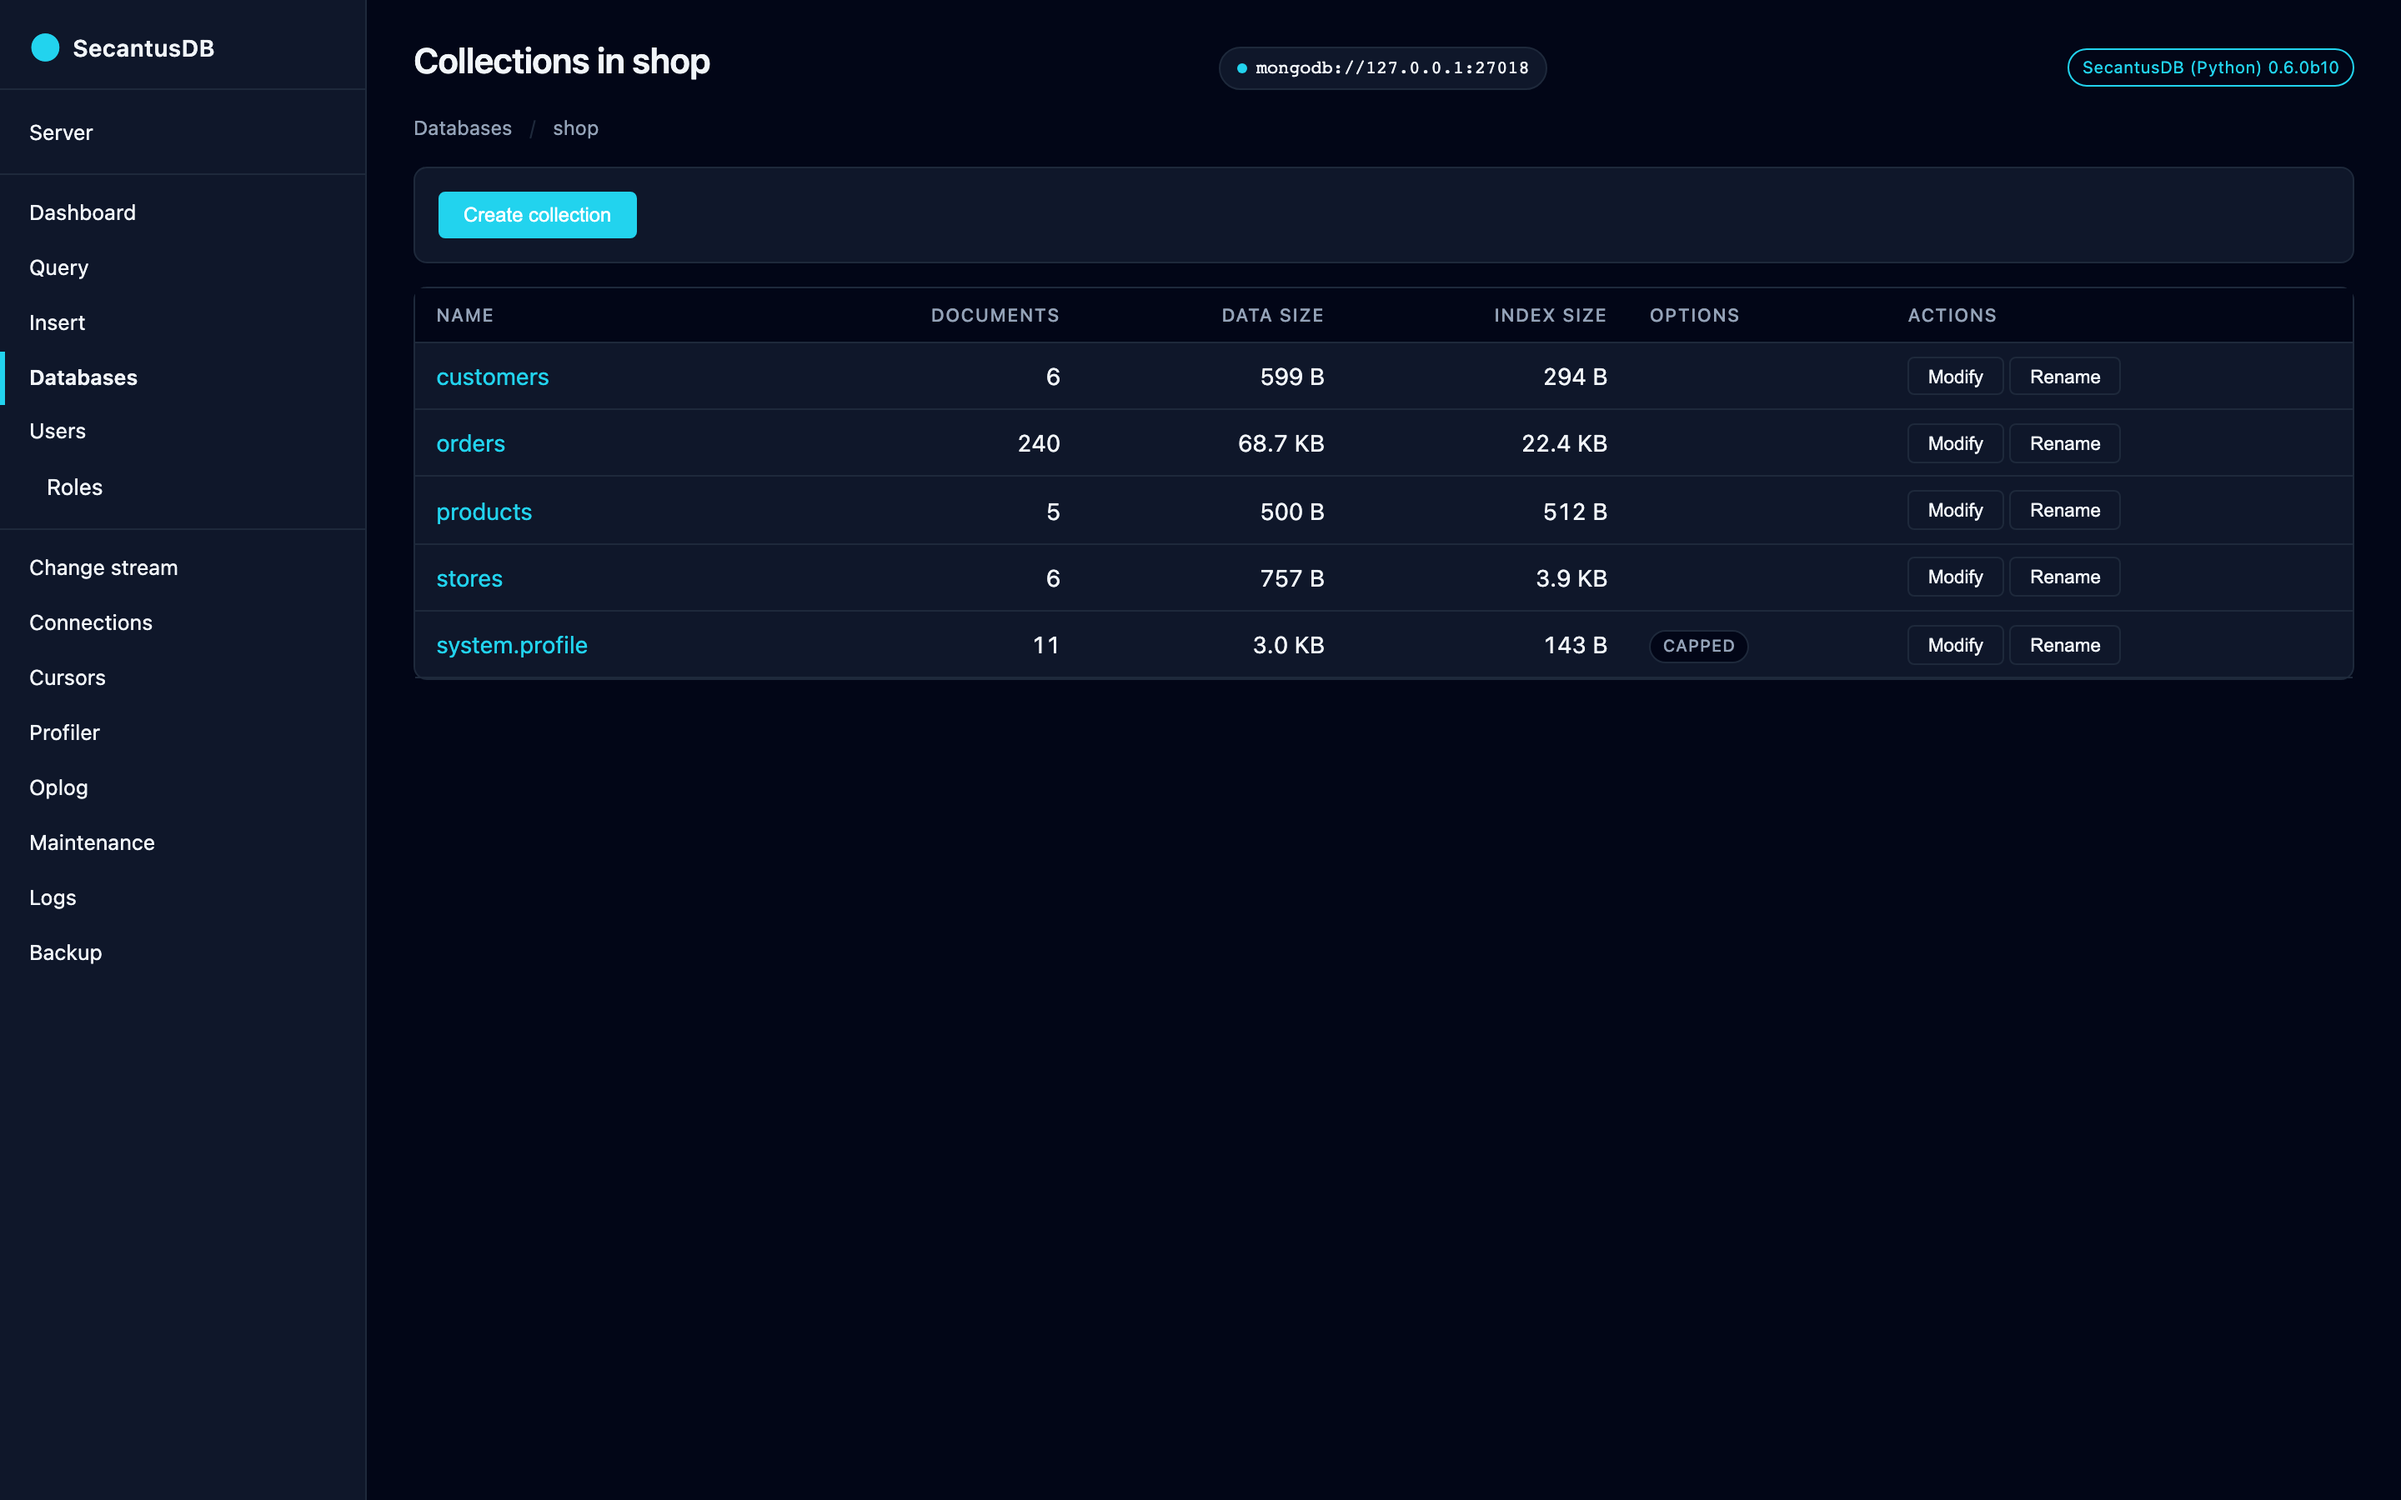
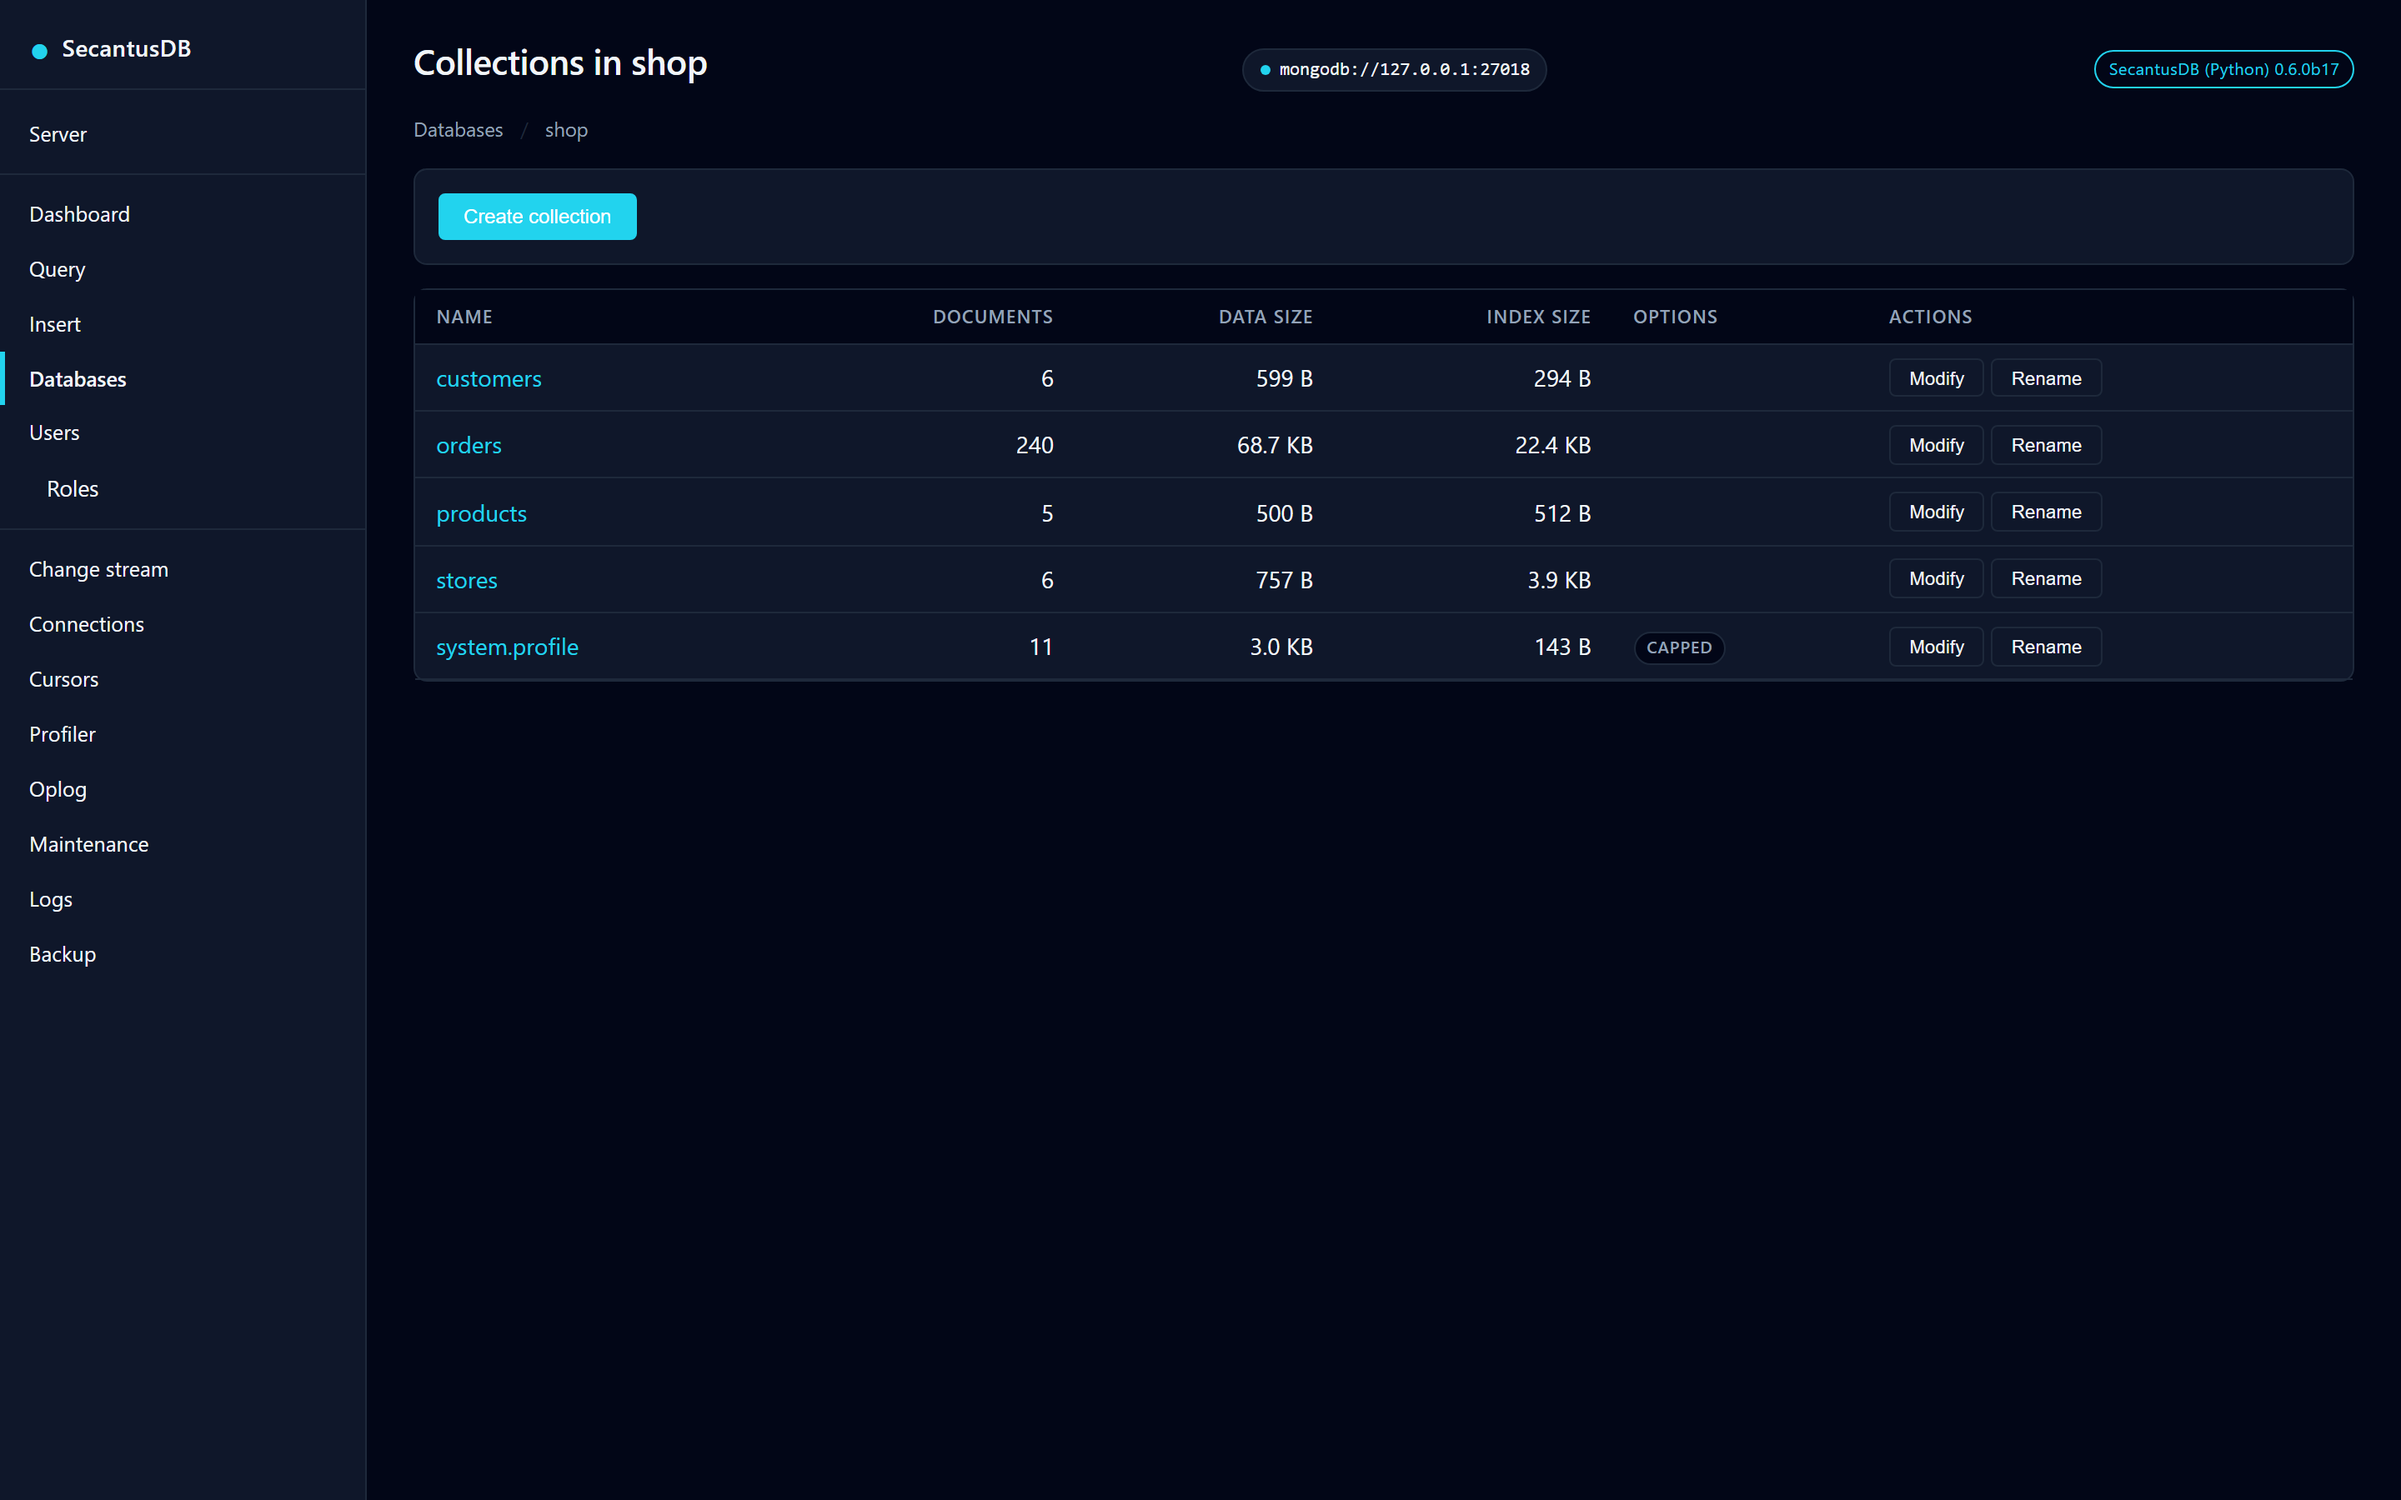
docs: regenerate the admin screenshots, and fix the path scrub on Windows
The 22 admin screenshots had not been regenerated since 0.6.0b11 on
2026-08-15, so the published images still carried a 0.6.0b10 version
badge six releases later. Nothing failed: test_docs_screenshots.py
checks that a documented page HAS an image, and cannot tell a stale one
from a fresh one.

Regenerating on Windows found a real fault in the capture script. The
scrubber rewrites machine-specific paths by prefix, so every segment
after the placeholder kept its backslash and the docs would have read
/var/lib/secantus\backups and /home/user\.secantus\embedded-data. It now
re-slashes the run of path characters it just wrote, and nothing else --
an unrelated backslash elsewhere on the page is left alone.

Two further differences were environment, not code, and are fixed by
provisioning rather than by accepting a worse image: without the
_secantus_server extension the SERVER picker collapses to one option and
disappears, and without mongodump/mongorestore on PATH the Backup page
renders a red "Mongo tools not on PATH" banner. Both were present in the
macOS captures this replaces.

diff --git a/scripts/admin_screenshots.py b/scripts/admin_screenshots.py
@@ -784,35 +784,45 @@ def _empty_state(page: Any) -> str | None:
 # --------------------------------------------------------------------------
 
 _SCRUB_JS = """
-([replacements]) => {
+([replacements, posixPrefixes]) => {
+  // A prefix rule leaves the REST of a Windows path backslashed, so
+  // `/var/lib/secantus\\\\backups` survives the replace. Re-slash only the
+  // run of path characters immediately following a placeholder we just
+  // wrote — never backslashes elsewhere on the page.
+  const escapeRe = (s) => s.replace(/[.*+?^${}()|[\\]\\\\]/g, '\\\\$&');
+  const tailRes = (posixPrefixes || []).map(
+    (p) => new RegExp(escapeRe(p) + '[^\\\\s"\\'<>]*', 'g')
+  );
+  const apply = (value) => {
+    let next = value;
+    for (const [from, to] of replacements) {
+      if (next.includes(from)) next = next.split(from).join(to);
+    }
+    for (const re of tailRes) {
+      next = next.replace(re, (m) => m.replace(/\\\\/g, '/'));
+    }
+    return next;
+  };
   const walker = document.createTreeWalker(document.body, NodeFilter.SHOW_TEXT);
   const nodes = [];
   while (walker.nextNode()) nodes.push(walker.currentNode);
   for (const node of nodes) {
-    let text = node.nodeValue;
-    for (const [from, to] of replacements) {
-      if (text.includes(from)) text = text.split(from).join(to);
-    }
-    if (text !== node.nodeValue) node.nodeValue = text;
+    const next = apply(node.nodeValue);
+    if (next !== node.nodeValue) node.nodeValue = next;
   }
   // Same for attributes that surface paths (title=, value=, placeholder=).
   for (const el of document.querySelectorAll('[title], [value], [placeholder]')) {
     for (const attr of ['title', 'value', 'placeholder']) {
       const cur = el.getAttribute(attr);
       if (!cur) continue;
-      let next = cur;
-      for (const [from, to] of replacements) {
-        if (next.includes(from)) next = next.split(from).join(to);
-      }
+      const next = apply(cur);
       if (next !== cur) el.setAttribute(attr, next);
     }
   }
   // Input elements hold their live value off-attribute.
   for (const el of document.querySelectorAll('input, textarea')) {
-    let next = el.value;
-    for (const [from, to] of replacements) {
-      if (next && next.includes(from)) next = next.split(from).join(to);
-    }
+    if (!el.value) continue;
+    const next = apply(el.value);
     if (next !== el.value) el.value = next;
   }
 }
@@ -833,7 +843,13 @@ def _scrub(page: Any, harness: AdminHarness) -> None:
         [ADMIN_TOKEN, "<token>"],
         [socket.gethostname(), "localhost"],
     ]
-    page.evaluate(_SCRUB_JS, [replacements])
+    # Each rule above rewrites a PREFIX, so on Windows any path segments
+    # *after* the prefix keep their backslashes and a placeholder renders
+    # as ``/var/lib/secantus\backups`` or ``/home/user\.secantus``. Hand
+    # the POSIX placeholders to the scrubber so it can normalise the tail
+    # it just created — without touching backslashes anywhere else.
+    posix_prefixes = [to for _, to in replacements if to.startswith("/")]
+    page.evaluate(_SCRUB_JS, [replacements, posix_prefixes])
 
 
 # --------------------------------------------------------------------------

diff --git a/changelog.d/admin-screenshots-windows.md b/changelog.d/admin-screenshots-windows.md
@@ -1,0 +1,24 @@
+### The admin screenshots regenerate correctly on Windows
+
+The 22 admin-UI screenshots had not been regenerated since `0.6.0b11`
+(2026-08-15), so the published images still showed a `0.6.0b10` version
+badge six releases later. `tests/test_docs_screenshots.py` cannot catch
+this — it checks that every documented page *has* an image, and nothing
+checks what is in one.
+
+Regenerating on Windows then surfaced two faults in the capture script
+itself, both of which would have shipped a worse image than the stale one
+they replaced.
+
+#### Fixed
+
+- `scripts/admin_screenshots.py` scrubbed machine-specific paths by
+  rewriting only their PREFIX, so on Windows every segment after the
+  placeholder kept its backslash and the docs would have shown
+  `/var/lib/secantus\backups` and `/home/user\.secantus\embedded-data`.
+  The scrubber now re-slashes the run of path characters it has just
+  written, and leaves backslashes anywhere else on the page alone.
+
+#### Changed
+
+- Regenerated all 22 admin screenshots at `0.6.0b17`.
